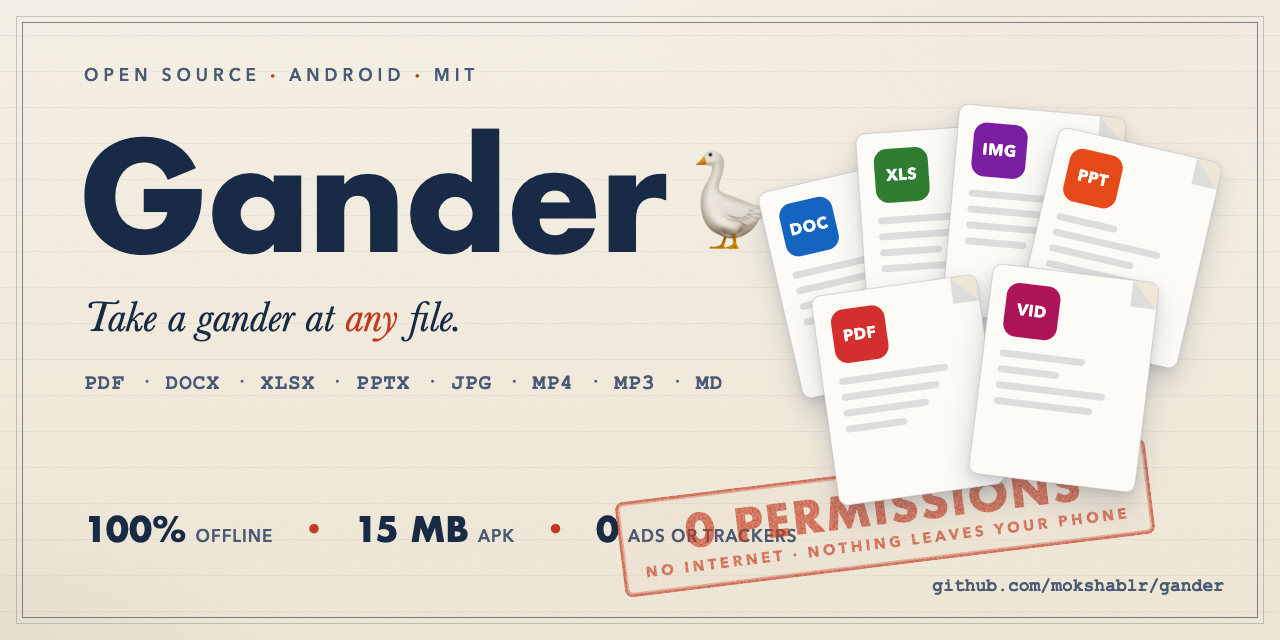
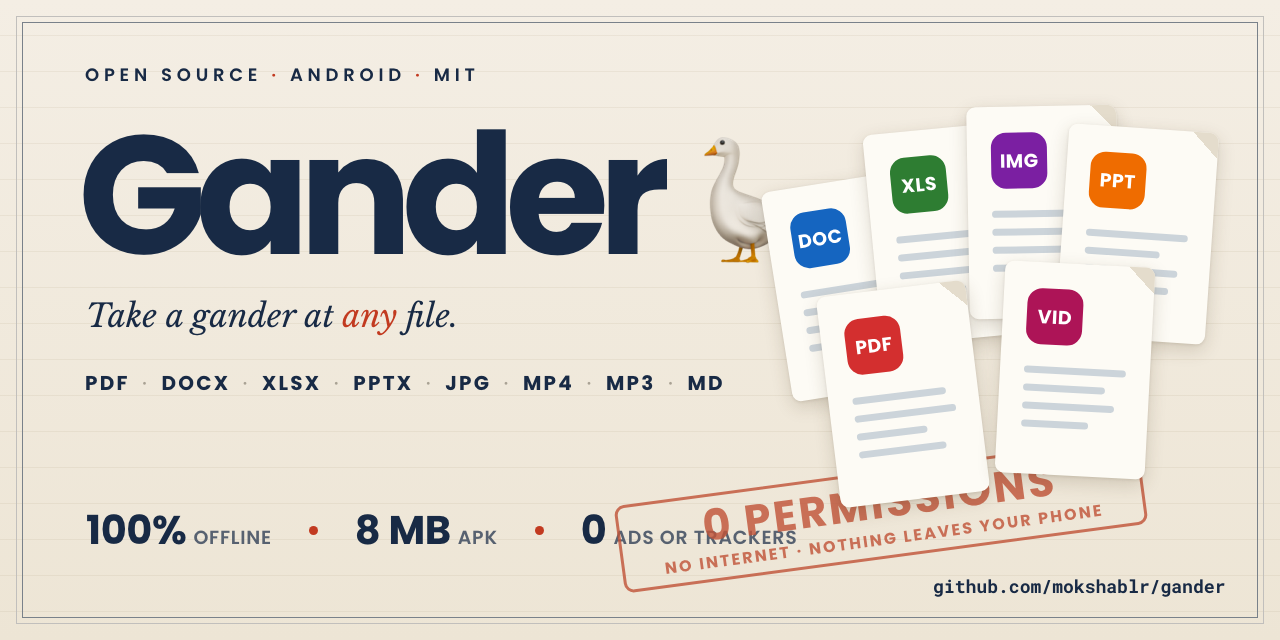
Rebuild the social preview from HTML and correct it to 8 MB
The card still read 15 MB after the APK dropped to 8.3 MB, and the HTML it was
originally rendered from was never committed, so there was nothing to edit.

Rebuilt that source with every position measured off the PNG rather than
guessed: 36px rule pitch from y=35, frame hairlines inset 16 and 22, and a
528x88 stamp rotated -7.62deg worked out from its four border corners. Feature
boxes land within 1 to 3px.

Two fonts are approximations, since a PNG does not record them. The italic is
Libre Baskerville, picked by scoring six candidates on pixel difference and
letterform. The wordmark is Poppins with tracking tuned to the measured
582x126px; the original is some other geometric sans with a single-storey a.

Re-render with scripts/render-social-preview.sh, which needs network for the
fonts and waits on them via --virtual-time-budget.

diff --git a/docs/social-preview.html b/docs/social-preview.html
@@ -1,0 +1,242 @@
+<!doctype html>
+<html lang="en">
+<head>
+<meta charset="utf-8">
+<title>Gander social preview 1280x640</title>
+<!--
+  Source for docs/social-preview.png, the GitHub repo social card.
+
+  The original was rendered from HTML in headless Chrome but the file was never
+  committed, so when the APK size changed from 15 MB to 8 MB the number had to be
+  patched into the raster by hand. This is a rebuild of that source so the next
+  edit is a text change and a re-render.
+
+  Render:  scripts/render-social-preview.sh
+  Size:    1280x640, which is what GitHub asks for.
+
+  Fonts. The original typeface is not recoverable from a PNG. The wordmark is a
+  geometric sans with a single-storey 'a' and equal 'a'/'d' widths, which points
+  at the Futura/Poppins family; Poppins is used here with the tracking tuned to
+  reproduce the measured 582x126px wordmark. The italic is Libre Baskerville,
+  chosen by rendering six candidates and comparing both pixel difference and
+  letterform against the original, where it won on each. If you remember what
+  was actually used, change --sans / --serif and re-render.
+
+  Every position below was measured off the original PNG, so the layout numbers
+  are not guesses.
+-->
+<link rel="preconnect" href="https://fonts.googleapis.com">
+<link rel="preconnect" href="https://fonts.gstatic.com" crossorigin>
+<link href="https://fonts.googleapis.com/css2?family=Poppins:wght@500;600;700&family=Libre+Baskerville:ital@0;1&family=Roboto+Mono:wght@700&display=block" rel="stylesheet">
+<style>
+  :root {
+    --sans: 'Poppins', 'Futura', 'Century Gothic', sans-serif;
+    --serif: 'Libre Baskerville', Georgia, serif;
+    --mono: 'Roboto Mono', 'Andale Mono', monospace;
+
+    --navy: #182a45;        /* measured: rgb(24,42,69)   */
+    --red: #c23a20;         /* measured: rgb(194,58,32)  */
+    --slate: #576170;       /* measured: rgb(87,97,112)  */
+    --stamp: #c1553a;
+    --paper-top: #f4eee4;   /* measured at y=30   */
+    --paper-bot: #ede5d5;   /* measured at y=610  */
+    --rule: rgba(120, 96, 50, 0.075);
+    --card: #fdfbf5;        /* measured: rgb(253,251,245) */
+    --card-line: #ccd4da;
+    --frame-outer: #c1bfbc; /* 1px rule, 16px inset */
+    --frame-inner: #79818a; /* 1px rule, 22px inset */
+  }
+
+  * { box-sizing: border-box; }
+  html, body { margin: 0; padding: 0; background: #fff; }
+
+  .stage {
+    position: relative;
+    width: 1280px;
+    height: 640px;
+    overflow: hidden;
+    /* Ruled paper: 36px pitch, first rule at y=35, over a vertical wash. */
+    background:
+      repeating-linear-gradient(
+        to bottom,
+        transparent 0 35px,
+        var(--rule) 35px 36px
+      ),
+      linear-gradient(to bottom, var(--paper-top), var(--paper-bot));
+    font-family: var(--sans);
+    color: var(--navy);
+    -webkit-font-smoothing: antialiased;
+  }
+
+  /* Two nested hairlines, inset 16px and 22px. */
+  .frame-outer, .frame-inner { position: absolute; pointer-events: none; }
+  .frame-outer { inset: 16px; border: 1px solid var(--frame-outer); }
+  .frame-inner { inset: 22px; border: 1px solid var(--frame-inner); }
+
+  /* ---------- left column ---------- */
+
+  .eyebrow {
+    position: absolute; left: 85px; top: 66px;
+    font-weight: 600; font-size: 18px; letter-spacing: 0.265em;
+    line-height: 1;
+  }
+  .eyebrow .dot { color: var(--red); }
+
+  .wordmark {
+    position: absolute; left: 78px; top: 111px;
+    font-weight: 700; font-size: 168.5px; letter-spacing: -0.0645em;
+    line-height: 1; white-space: nowrap;
+  }
+
+  /* Apple's goose emoji, as in the original. Sized to the measured 164x124 box. */
+  .goose {
+    position: absolute; left: 680px; top: 138px;
+    font-size: 132px; line-height: 1;
+    font-family: 'Apple Color Emoji', 'Segoe UI Emoji', sans-serif;
+  }
+
+  .tagline {
+    position: absolute; left: 86px; top: 300px;
+    font-family: var(--serif); font-style: italic; font-size: 32px;
+    line-height: 1; white-space: nowrap;
+  }
+  .tagline em { color: var(--red); font-style: italic; }
+
+  .formats {
+    position: absolute; left: 85px; top: 373px;
+    font-weight: 700; font-size: 20px; letter-spacing: 0.11em;
+    line-height: 1; white-space: nowrap;
+  }
+  .formats .sep { color: #a9a294; font-weight: 500; margin: 0 6px; }
+
+  .claims {
+    position: absolute; left: 86px; top: 510px;
+    display: flex; align-items: baseline; gap: 37px;
+    line-height: 1; white-space: nowrap;
+  }
+  .claims b { font-weight: 700; font-size: 40px; letter-spacing: -0.01em; }
+  .claims small {
+    font-weight: 600; font-size: 19px; letter-spacing: 0.04em;
+    color: var(--slate); margin-left: 7px;
+  }
+  .claims .bullet {
+    width: 9px; height: 9px; border-radius: 50%;
+    background: var(--red); align-self: center; flex: 0 0 auto;
+  }
+
+  .repo {
+    position: absolute; left: 933px; top: 577px;
+    font-family: var(--mono); font-weight: 700; font-size: 18.2px;
+    letter-spacing: -0.005em; line-height: 1;
+  }
+
+  /* ---------- fanned document cards ---------- */
+
+  .cards { position: absolute; inset: 0; }
+
+  .card {
+    position: absolute;
+    width: 150px; height: 212px;
+    background: var(--card);
+    border-radius: 9px;
+    box-shadow: 0 6px 18px rgba(70, 55, 30, 0.18), 0 1px 3px rgba(70, 55, 30, 0.12);
+    padding: 26px 24px;
+  }
+  /* Folded top-right corner. */
+  .card::after {
+    content: ""; position: absolute; top: 0; right: 0;
+    width: 26px; height: 26px;
+    border-top-right-radius: 9px;
+    background: linear-gradient(225deg, #e4dccc 0 50%, transparent 50%);
+  }
+  .badge {
+    width: 56px; height: 56px; border-radius: 15px;
+    display: flex; align-items: center; justify-content: center;
+    color: #fff; font-weight: 700; font-size: 19px; letter-spacing: 0.02em;
+  }
+  .lines { margin-top: 22px; }
+  .lines i {
+    display: block; height: 7px; border-radius: 4px;
+    background: var(--card-line); margin-bottom: 11px;
+  }
+
+  /* Measured badge centres drive these transforms. */
+  .c-doc { left: 776px; top: 180px; transform: rotate(-9deg);  z-index: 1; }
+  .c-xls { left: 872px; top: 128px; transform: rotate(-5.5deg); z-index: 2; }
+  .c-img { left: 968px; top: 106px;  transform: rotate(-1deg);  z-index: 3; }
+  .c-ppt { left: 1062px; top: 128px; transform: rotate(4deg);  z-index: 4; }
+  .c-pdf { left: 828px; top: 288px; transform: rotate(-7deg);  z-index: 6; }
+  .c-vid { left: 1000px; top: 264px; transform: rotate(3deg);   z-index: 7; }
+
+  .b-doc { background: #1565c0; }
+  .b-xls { background: #2e7d32; }
+  .b-img { background: #7b1fa2; }
+  .b-ppt { background: #ef6c00; }
+  .b-pdf { background: #d32f2f; }
+  .b-vid { background: #ad1457; }
+
+  /* ---------- 0 PERMISSIONS stamp ---------- */
+
+  .stamp {
+    /* Box measured off the original from its four border corners: 528x88.5
+       including the 3px rule, centred at (885, 518), rotated -7.62deg. */
+    position: absolute; left: 617px; top: 471px;
+    width: 528px; height: 88px;
+    border: 3px solid var(--stamp);
+    border-radius: 10px;
+    transform: rotate(-7.62deg);
+    color: var(--stamp);
+    opacity: 0.82;
+    display: flex; flex-direction: column;
+    align-items: center; justify-content: center; gap: 7px;
+    z-index: 5;
+  }
+  .stamp .big {
+    font-weight: 700; font-size: 43px; letter-spacing: 0.055em;
+    line-height: 1; white-space: nowrap;
+  }
+  .stamp .small {
+    font-weight: 700; font-size: 16px; letter-spacing: 0.135em;
+    line-height: 1; white-space: nowrap;
+  }
+</style>
+</head>
+<body>
+<div class="stage">
+  <div class="frame-outer"></div>
+  <div class="frame-inner"></div>
+
+  <div class="eyebrow">OPEN SOURCE <span class="dot">&middot;</span> ANDROID <span class="dot">&middot;</span> MIT</div>
+  <div class="wordmark">Gander</div>
+  <div class="goose">🪿</div>
+  <div class="tagline">Take a gander at <em>any</em> file.</div>
+  <div class="formats">PDF <span class="sep">&middot;</span> DOCX <span class="sep">&middot;</span> XLSX <span class="sep">&middot;</span> PPTX <span class="sep">&middot;</span> JPG <span class="sep">&middot;</span> MP4 <span class="sep">&middot;</span> MP3 <span class="sep">&middot;</span> MD</div>
+
+  <div class="cards">
+    <div class="card c-doc"><div class="badge b-doc">DOC</div><div class="lines"><i style="width:100%"></i><i style="width:88%"></i><i style="width:96%"></i><i style="width:70%"></i></div></div>
+    <div class="card c-xls"><div class="badge b-xls">XLS</div><div class="lines"><i style="width:100%"></i><i style="width:82%"></i><i style="width:94%"></i><i style="width:64%"></i></div></div>
+    <div class="card c-img"><div class="badge b-img">IMG</div><div class="lines"><i style="width:96%"></i><i style="width:100%"></i><i style="width:78%"></i><i style="width:88%"></i></div></div>
+    <div class="card c-ppt"><div class="badge b-ppt">PPT</div><div class="lines"><i style="width:100%"></i><i style="width:74%"></i><i style="width:92%"></i><i style="width:84%"></i></div></div>
+    <div class="card c-pdf"><div class="badge b-pdf">PDF</div><div class="lines"><i style="width:92%"></i><i style="width:100%"></i><i style="width:70%"></i><i style="width:86%"></i></div></div>
+    <div class="card c-vid"><div class="badge b-vid">VID</div><div class="lines"><i style="width:100%"></i><i style="width:80%"></i><i style="width:90%"></i><i style="width:66%"></i></div></div>
+  </div>
+
+  <!-- The APK size lives here and nowhere else. Keep it in step with
+       app/build.gradle.kts and the README alt text. -->
+  <div class="claims">
+    <span><b>100%</b><small>OFFLINE</small></span>
+    <span class="bullet"></span>
+    <span><b>8 MB</b><small>APK</small></span>
+    <span class="bullet"></span>
+    <span><b>0</b><small>ADS OR TRACKERS</small></span>
+  </div>
+
+  <div class="stamp">
+    <div class="big">0 PERMISSIONS</div>
+    <div class="small">NO INTERNET &middot; NOTHING LEAVES YOUR PHONE</div>
+  </div>
+
+  <div class="repo">github.com/mokshablr/gander</div>
+</div>
+</body>
+</html>
